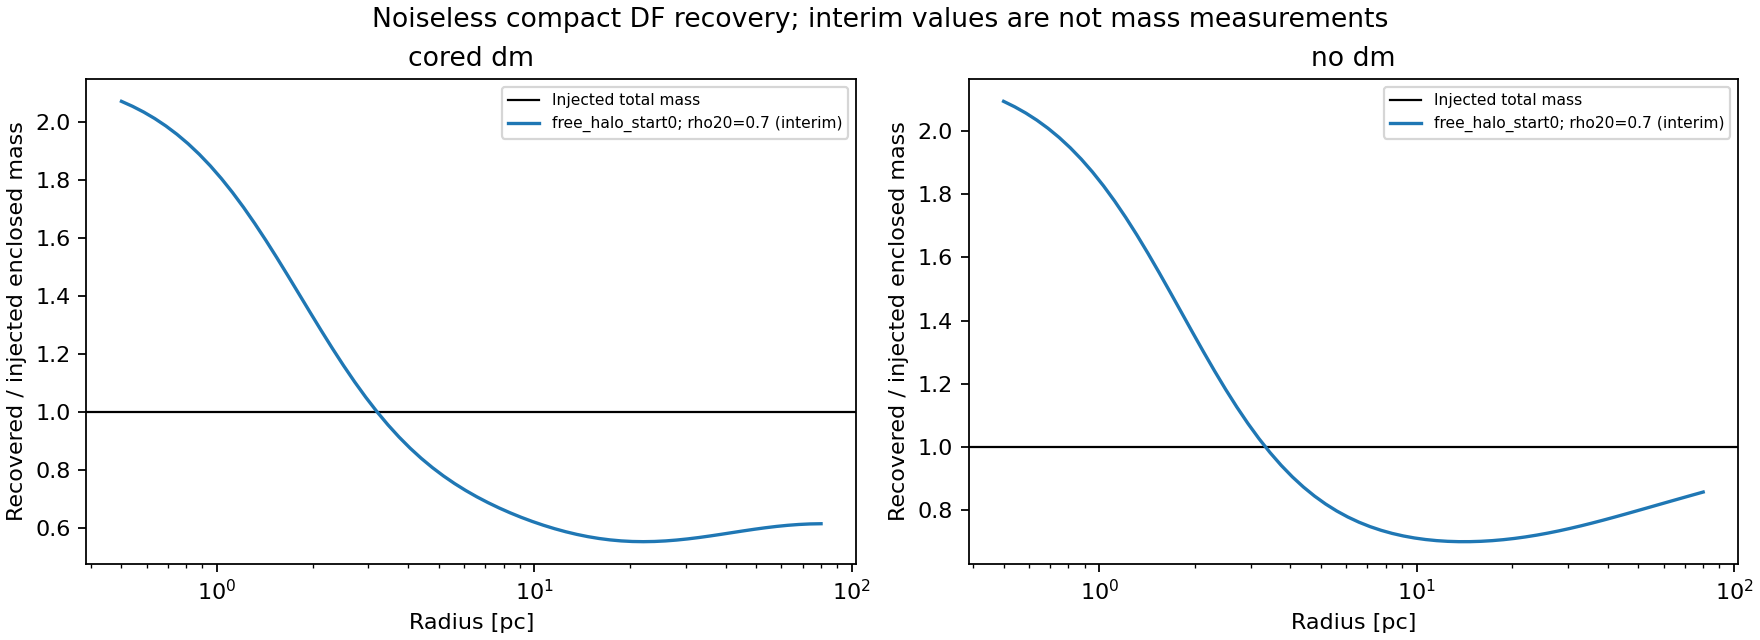
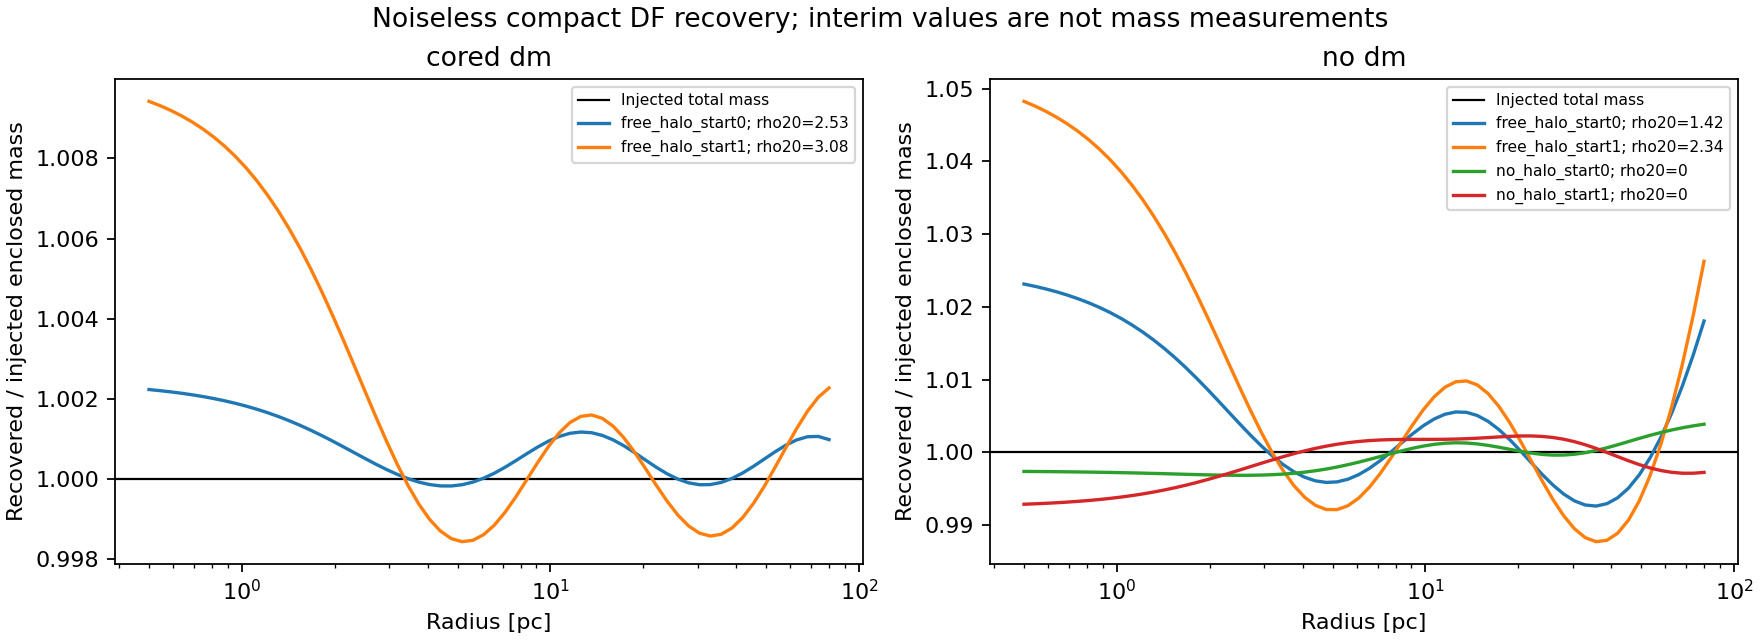
Record compact DF recovery v2 results: star/halo split not recovered

diff --git a/JOURNAL.md b/JOURNAL.md
@@ -4906,3 +4906,43 @@ job. The first jobs fit a free halo to the cored-DM and no-DM mocks. Results,
 checkpoints, and source/input snapshots remain in the batch directory; the
 progress PNG and its data follow the project output convention. Scientific
 recovery gates remain pending until the full fits and validations finish.
+
+## 2026-09-23 -- Compact recovery v2 finished: all six fits fail the gates
+
+All six jobs in `results/df/compact_recovery_20260923_v2/` exited cleanly by
+01:34 UTC (`report.json`). None terminated within the 180-evaluation budget, so
+every fit is recorded as unconverged and fails the combined gate.
+
+| Fit | Numerical | RMS / max (err) | M_star error | rho20 (true) |
+|---|---|---|---|---|
+| cored, free halo, start0 | pass | 0.006 / 0.025 | 4.1% | 2.53 (2.0) |
+| cored, free halo, start1 | fail | 0.006 / 0.022 | 8.5% | 3.08 (2.0) |
+| no DM, free halo, start0 | pass | 0.015 / 0.073 | 14.9% | 1.42 (0) |
+| no DM, free halo, start1 | pass | 0.024 / 0.131 | 24.4% | 2.34 (0) |
+| no DM, no halo, start0 | pass | 0.076 / 0.356 | 0.7% | fixed 0 |
+| no DM, no halo, start1 | pass | 0.037 / 0.147 | 0.2% | fixed 0 |
+
+Columns: numerical = cold replay, refinement, and projection checks; RMS/max
+= refined noiseless-mock residuals in adopted errors; rho20 = halo density at
+20 pc in solar masses per cubic parsec.
+
+Free-halo fits match the noiseless observables to 0.006-0.024 errors RMS, and
+total enclosed mass stays within 0.2-4.8% at every diagnostic radius. The
+star/halo split is not recovered, however. In the no-DM mock a spurious halo
+(rho20 1.4-2.3) replaces 15-24% of the stellar mass. In the cored mock the two
+starts give rho20 = 2.53 and 3.08. Because no fit converged, part of this may
+be optimizer budget; the residual levels nonetheless show a nearly flat
+objective along the stellar-mass/halo-density direction. The no-halo start1
+objective was still falling at the cap (0.255 to 0.238 over the last 10
+evaluations). The start0 no-halo fit misses the maximum-residual gate
+(0.356 > 0.3).
+
+Cored start1 fails numerical validation: independent projected moments
+differ by 0.81% in pmr and 0.46% in los, against the 0.5% threshold. Its cold
+and refinement shifts pass (0.0021 and 0.000089 errors).
+
+The DF models are therefore not ready for DM inference. Candidate follow-ups,
+not yet launched: a profile scan in fixed rho20 to map the degeneracy
+directly, an explicitly recorded extension of the capped fits, and a check of
+projection accuracy at the cored start1 solution. DF-focused unit tests
+(`test_regularized_df.py`, `test_compact_recovery.py`) pass: 24 tests.

diff --git a/docs/COMPACT_DF_RECOVERY.md b/docs/COMPACT_DF_RECOVERY.md
@@ -117,3 +117,16 @@ previously failing refined-model rebuild before v2 launched.
 Progress figure: `plots/compact_recovery_20260923_v2.png`. Its arrays and
 provenance are in `results/plot_data/compact_recovery_20260923_v2.json`.
 Interim curves are labelled explicitly and are not mass measurements.
+
+## v2 result: 23 September 2026
+
+All six fits finished by 01:34 UTC and all fail the combined gate; none
+terminated within 180 evaluations. Free-halo fits reproduce the noiseless
+mocks to 0.006-0.024 adopted errors RMS and total mass within 4.8%, but do not
+separate stars from DM. The no-DM mock yields rho20 = 1.42 and 2.34 with
+stellar mass 15% and 24% low. The cored mock yields rho20 = 2.53 and 3.08
+(truth 2.0) with stellar mass 4% and 9% low. The fixed-no-halo fits recover
+stellar mass within 0.7%; start0 misses the maximum-residual gate (0.356).
+Cored start1 fails projection validation (pmr 0.81%). Per-fit numbers are in
+`JOURNAL.md` and `report.json`; the final figure is
+`plots/compact_recovery_20260923_v2.png`.
